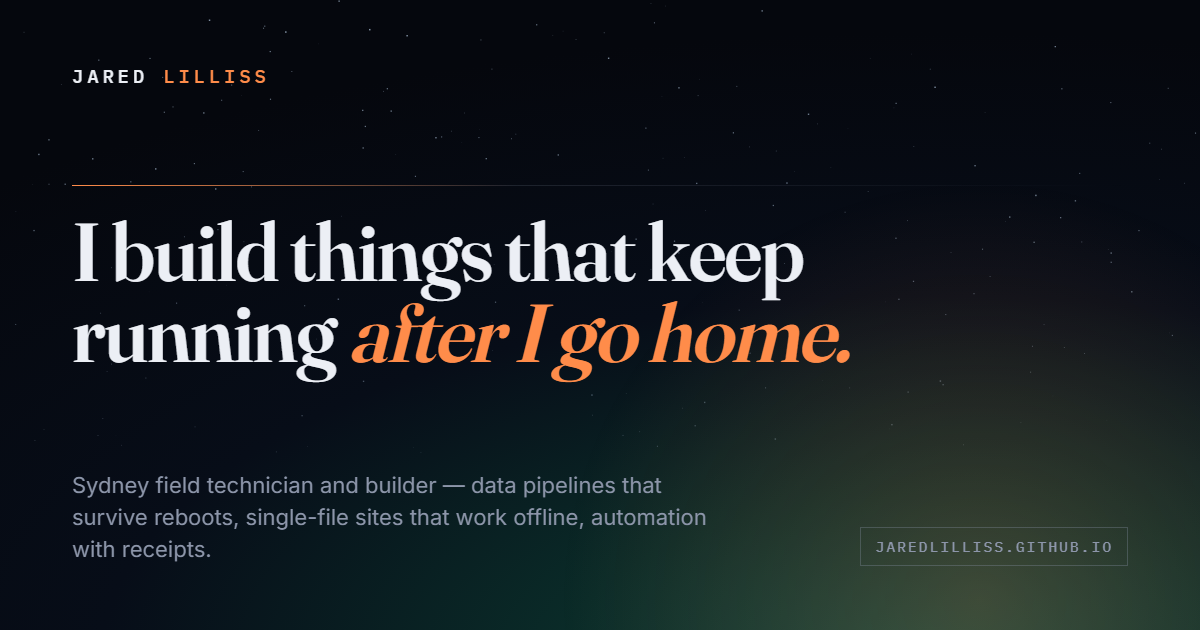
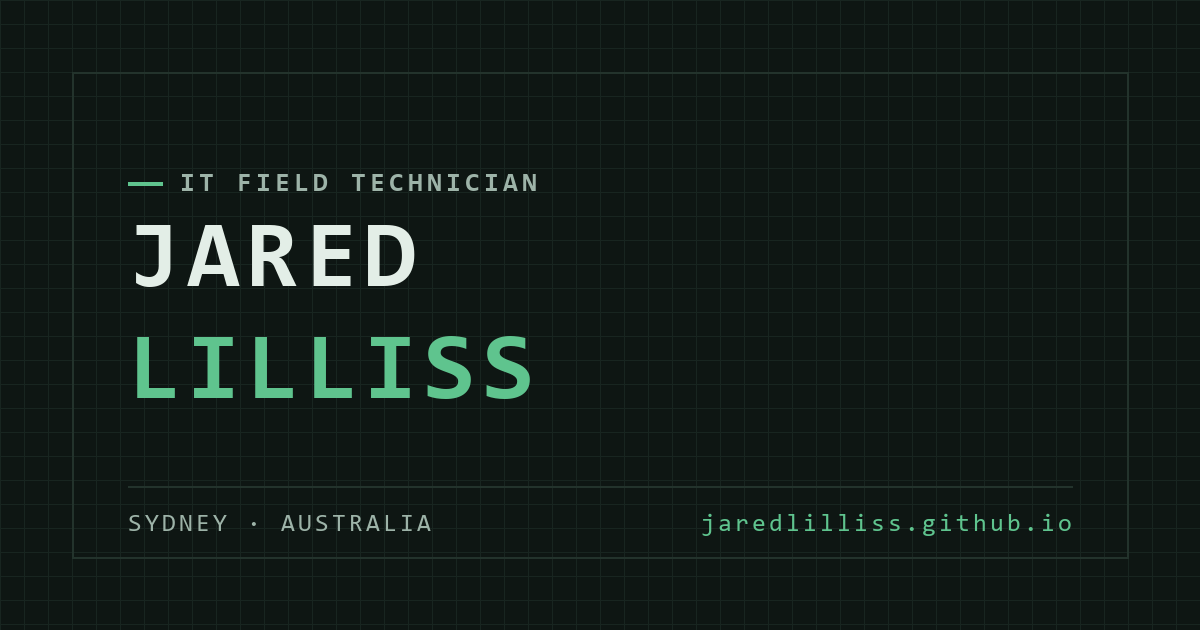
Take the manifesto voice out of the front door
The hero read as a personal slogan - a headline about building
things that keep running after I go home, a lede in three rhythmic
clauses, section titles like Projects with receipts, Field tech
hands systems head, and Email finds me. The owner's verdict on it
was blunt and correct.

Same facts, stated plainly: name, job, place, then what is actually
running. The four fields under the hero card now carry a number
each, including the count of departments the collector reads, and
the 03:30 dump says which clock it runs on. The about section says
what the day job is and why the collector exists, including that
the early weeks have gaps because it ran on a laptop that slept.

The social card is rebuilt for the same reason: the old one had the
slogan drawn into the image, so every share carried it whatever the
page said. Same filename and size, so no markup depends on it.

Nothing is restyled. The renditions builder runs clean against the
new copy.

diff --git a/index.html b/index.html
@@ -3,8 +3,8 @@
 <head>
 <meta charset="utf-8">
 <meta name="viewport" content="width=device-width, initial-scale=1">
-<title>Jared Lilliss — builds that keep running</title>
-<meta name="description" content="Jared Lilliss — Sydney field technician and builder. Data pipelines that survive reboots, single-file websites that work offline, automation with receipts.">
+<title>Jared Lilliss</title>
+<meta name="description" content="Jared Lilliss — IT field technician in Sydney. A collector reading NSW emergency department queue counts every fifteen minutes, single-file websites, and the code behind them.">
 
 <meta name="theme-color" media="(prefers-color-scheme: light)" content="#F2F5EF">
 <meta name="theme-color" media="(prefers-color-scheme: dark)" content="#0E1613">
@@ -12,17 +12,17 @@
 <link rel="canonical" href="https://jaredlilliss.github.io/">
 <meta property="og:type" content="website">
 <meta property="og:site_name" content="Jared Lilliss">
-<meta property="og:title" content="Jared Lilliss — builds that keep running">
-<meta property="og:description" content="Sydney field technician and builder — data pipelines that survive reboots, single-file sites that work offline, automation with receipts.">
+<meta property="og:title" content="Jared Lilliss">
+<meta property="og:description" content="IT field technician in Sydney. A collector reading NSW emergency department queue counts every fifteen minutes, and websites that are one file each.">
 <meta property="og:url" content="https://jaredlilliss.github.io/">
 <meta property="og:image" content="https://jaredlilliss.github.io/og.png">
 <meta property="og:image:type" content="image/png">
 <meta property="og:image:width" content="1200">
 <meta property="og:image:height" content="630">
-<meta property="og:image:alt" content="Night sky over an aurora horizon, with the line: I build things that keep running after I go home.">
+<meta property="og:image:alt" content="A card on a faint grid reading: Jared Lilliss, IT field technician, Sydney.">
 <meta name="twitter:card" content="summary_large_image">
-<meta name="twitter:title" content="Jared Lilliss — builds that keep running">
-<meta name="twitter:description" content="Sydney field technician and builder — data pipelines that survive reboots, single-file sites that work offline, automation with receipts.">
+<meta name="twitter:title" content="Jared Lilliss">
+<meta name="twitter:description" content="IT field technician in Sydney. A collector reading NSW emergency department queue counts every fifteen minutes, and websites that are one file each.">
 <meta name="twitter:image" content="https://jaredlilliss.github.io/og.png">
 <style>
 @font-face{font-family:'Fraunces';font-style:normal;font-weight:100 900;font-display:swap;src:url('/fonts/fraunces.woff2') format('woff2')}
@@ -202,21 +202,16 @@ footer a:hover{color:var(--accent);border-bottom-color:var(--accent)}
       <a href="#contact">Contact</a>
       <a class="biz" href="/lilliss-it/">Lilliss IT</a>
     </nav>
-    <span class="stamp">Builds that keep running</span>
   </div>
 </header>
 
 <main id="main">
   <section class="hero wrap" id="top">
     <div class="card jobcard">
-      <p class="kicker"><span class="live"><span class="dot"></span>Systems running</span><span id="clock">Sydney &middot; Australia</span><span>Field technician &amp; builder</span></p>
+      <p class="kicker"><span class="live"><span class="dot"></span>Collecting since 20 July</span><span id="clock">Sydney &middot; Australia</span><span>IT field technician</span></p>
       <div class="body">
-        <h1>
-          <span class="ln">I build things that</span>
-          <span class="ln"><em>keep running</em></span>
-          <span class="ln">after I go home.</span>
-        </h1>
-        <p class="lede">Data pipelines that survive reboots, single-file websites that work offline, automation with receipts. By day I'm the IT field tech venues ring when the tills stop &mdash; <strong>the rest of the time I build the systems below.</strong></p>
+        <h1><span class="ln">Jared <em>Lilliss</em></span></h1>
+        <p class="lede">IT field technician in Sydney. Point-of-sale and payment terminals, Windows machines, cabling and cameras &mdash; mostly for venues, mostly the same day. <strong>Everything below I built myself.</strong></p>
         <div class="hero-cta">
           <a class="btn hot" href="#work">See the work</a>
           <a class="btn" href="https://github.com/jaredlilliss">GitHub</a>
@@ -228,20 +223,20 @@ footer a:hover{color:var(--accent);border-bottom-color:var(--accent)}
 
   <div class="strip rv">
     <div class="wrap">
-      <div class="stat"><b><span class="ok">&#9679;</span> Collecting now</b>a poll every 15 minutes, unattended, on a Melbourne VPS</div>
-      <div class="stat"><b><span class="em">03:30</span> nightly</b>database dump + automated offsite copy</div>
-      <div class="stat"><b>One file</b>whole websites that render with the network cable pulled</div>
-      <div class="stat"><b>Receipts first</b>what broke, what fixed it, what to watch for next time</div>
+      <div class="stat"><b><span class="ok">&#9679;</span> Collecting now</b>a reading every 15 minutes, unattended, on a Melbourne server</div>
+      <div class="stat"><b><span class="em">03:30</span> Melbourne time</b>a database dump each night, copied off the machine</div>
+      <div class="stat"><b>One file</b>each site here is a single HTML file, with no build step</div>
+      <div class="stat"><b>59 departments</b>every NSW emergency department that publishes a live count</div>
     </div>
   </div>
 
   <section id="work" class="wrap">
-    <div class="sect-head rv"><span class="idx">Work</span><h2>Projects with receipts</h2></div>
-    <p class="sect-sub rv">Everything here is real, running, and verifiable &mdash; live links where the work is public, honest descriptions where it isn't.</p>
+    <div class="sect-head rv"><span class="idx">Work</span><h2>Projects</h2></div>
+    <p class="sect-sub rv">Live links where the work is public, and a plain description where it isn't.</p>
     <div class="board">
       <article class="card wide rv"><h3 id="p-ahu">Aussie Health Utility</h3>
         <div class="tags"><span class="tag">Python</span><span class="tag">PostgreSQL</span><span class="tag">Linux VPS</span><span class="tag">cron</span><span class="tag">rclone</span></div>
-        <p>A privacy-by-design data platform over public Australian health datasets: a polling loop feeding an <strong>append-only PostgreSQL time series</strong> of live patients-waiting counts for NSW emergency departments, with the privacy posture set at the schema level &mdash; no personal or health information is ever collected. Runs unattended on a Melbourne VPS with health-checked collection, daily dumps, and <strong>automated offsite backups</strong>. Tens of thousands of readings and growing.</p>
+        <p>A collector that reads how many people are waiting in each NSW emergency department that publishes a live count, every fifteen minutes, and appends it to a <strong>PostgreSQL series that is never rewritten</strong>. No personal or health information is collected, because the schema has no fields for it. It runs unattended on a Melbourne server, dumps itself nightly and <strong>copies the dump off the machine</strong>. More than a hundred thousand readings so far.</p>
         <div class="foot">
           <span class="status"><span class="dot"></span>Running now</span>
           <a class="go" href="/queue-board/" aria-describedby="p-ahu">View the live board &rarr;</a>
@@ -269,7 +264,7 @@ footer a:hover{color:var(--accent);border-bottom-color:var(--accent)}
       </article>
       <article class="card wide rv"><h3>Lilliss IT</h3>
         <div class="tags"><span class="tag">Business</span><span class="tag">POS/EFTPOS</span><span class="tag">Networks</span><span class="tag">CCTV/AV</span></div>
-        <p>My trading identity: small-business IT across Sydney and regional NSW &mdash; point-of-sale and payment terminals, Windows fleets, structured cabling, cameras. One person from fault intake to fix. <strong>Trading since 2019, registered 2026.</strong></p>
+        <p>My trading name for the same work: small-business IT across Sydney and regional NSW &mdash; point-of-sale and payment terminals, Windows fleets, structured cabling, cameras. <strong>Trading since 2019, registered 2026.</strong></p>
         <div class="foot">
           <a class="go" href="/lilliss-it/">The business page &rarr;</a>
         </div>
@@ -278,12 +273,12 @@ footer a:hover{color:var(--accent);border-bottom-color:var(--accent)}
   </section>
 
   <section id="about" class="wrap">
-    <div class="sect-head rv"><span class="idx">About</span><h2>Field tech hands, systems head</h2></div>
+    <div class="sect-head rv"><span class="idx">About</span><h2>The day job, and the rest</h2></div>
     <div class="about-grid">
       <div class="about-copy rv">
-        <p><strong>The through-line in everything above is durability.</strong></p>
-        <p>A pipeline isn't done when it collects once &mdash; it's done when it survives reboots, sleeps, power loss and a change of host. A website isn't done when it looks good on my machine &mdash; it's done when it's one file that works on a phone, offline, in five languages.</p>
-        <p>Day work keeps that honest: when a venue's tills stop mid-service, the fix has to be real, fast, and documented &mdash; what broke, what fixed it, what to watch for next time. I bring the same receipts-first habit to everything I build.</p>
+        <p>I work as an IT field technician around Sydney. Day to day that is point-of-sale and payment terminals, Windows machines, structured cabling and cameras, for venues and small businesses &mdash; usually the same day, usually on site.</p>
+        <p>The collector below started in July, because the feed it reads publishes only the current moment and keeps no history: a reading not taken at the time is gone for good. It ran on a laptop first, which slept, so the early weeks have gaps. Since 23 August it has run on a small Melbourne server, and nothing after that is missing.</p>
+        <p>The websites here are each a single HTML file. No frameworks, no build step, and they still work with the network cable pulled.</p>
       </div>
       <div class="certs rv">
         <h3>Certifications</h3>
@@ -295,9 +290,9 @@ footer a:hover{color:var(--accent);border-bottom-color:var(--accent)}
   </section>
 
   <section id="contact" class="contact wrap">
-    <div class="cardhead"><span>Jared Lilliss &middot; field technician &amp; builder</span><span>Sydney &middot; Australia</span></div>
-    <div class="sect-head rv"><span class="idx">Contact</span><h2>Email finds me</h2></div>
-    <p class="sect-sub rv">Work, collaboration, or something broken that needs to stay fixed &mdash; describe it and you'll get a straight answer.</p>
+    <div class="cardhead"><span>Jared Lilliss &middot; IT field technician</span><span>Sydney &middot; Australia</span></div>
+    <div class="sect-head rv"><span class="idx">Contact</span><h2>Email</h2></div>
+    <p class="sect-sub rv">Email is the best way to reach me. Tell me what you need and you'll get a straight answer.</p>
     <a class="mail rv" href="mailto:jaredlils99@gmail.com">jaredlils99@gmail.com</a>
     <div class="socials rv">
       <a class="btn" href="https://github.com/jaredlilliss">GitHub</a>
